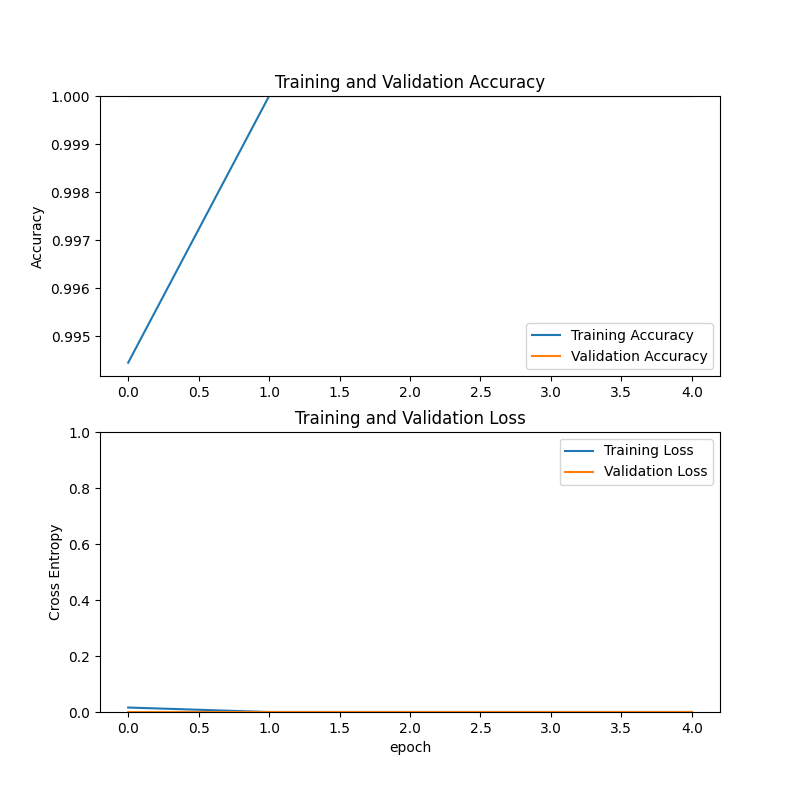
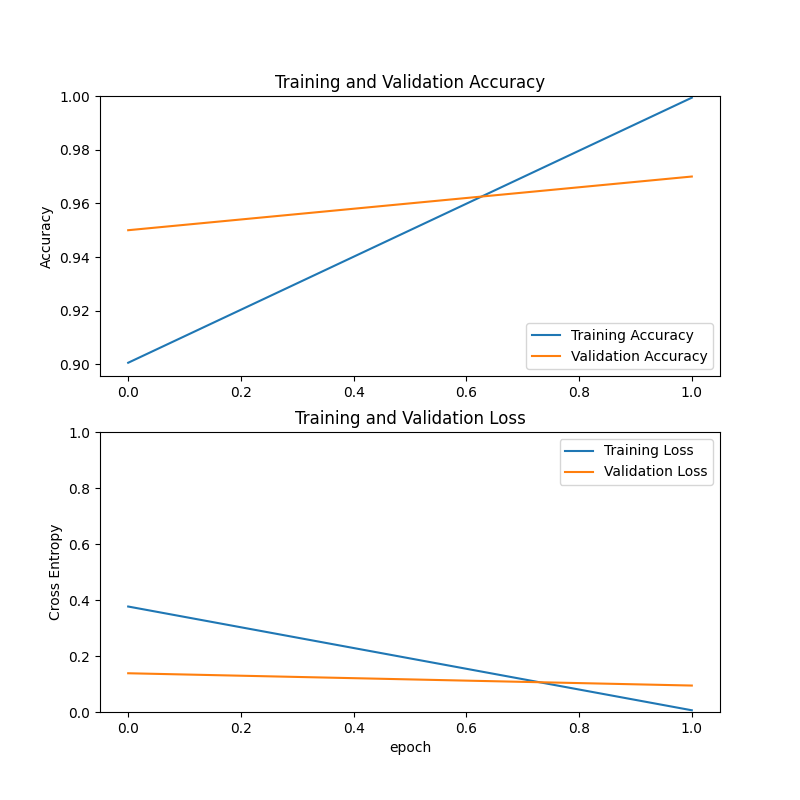
Train 4 person model

diff --git a/src/main.py b/src/main.py
@@ -1,7 +1,10 @@
 import matplotlib.pyplot as plt
 from pathlib import Path
+import numpy as np
 
 import constants
+from PIL import Image
+
 from dataset import Dataset
 from model import Model
 
@@ -37,8 +40,76 @@ def plot_metrics(history):
 
 
 if __name__ == "__main__":
-    dataset = Dataset(True)
-    model = Model(dataset)
-    history = model.train(constants.EPOCHS)
-    plot_metrics(history)
-    model.metrics()
+    # dataset = Dataset()
+    # model = Model(dataset)
+    # history = model.train(constants.EPOCHS)
+    # plot_metrics(history)
+    # model.export(quantize=False)
+    from predict import UbuntuPredictor
+    predictor = UbuntuPredictor("output/model.tflite")
+    preds = []
+    truths = []
+    for person in ["max", "connor", "grant", "emre"]:
+        for i in range(10):
+            image_path = f"./data/{person}/{str(i).zfill(5)}.jpg"
+            img = Image.open(image_path).convert('RGB')
+            img = img.resize((constants.IMAGE_SIZE, constants.IMAGE_SIZE), Image.LANCZOS)
+            img = np.array(img).astype(np.float32)/256.0
+            pred = predictor.predict(img,quantize=False)
+            preds.append(pred)
+            truths.append(person)
+
+    from sklearn.metrics import classification_report
+    print(classification_report(truths, preds))
+    # import tensorflow as tf
+    # def set_input_tensor(interpreter, input):
+    #     input_details = interpreter.get_input_details()[0]
+    #     tensor_index = input_details['index']
+    #     input_tensor = interpreter.tensor(tensor_index)()[0]
+    #     # Inputs for the TFLite model must be uint8, so we quantize our input data.
+    #     # NOTE: This step is necessary only because we're receiving input data from
+    #     # ImageDataGenerator, which rescaled all image data to float [0,1]. When using
+    #     # bitmap inputs, they're already uint8 [0,255] so this can be replaced with:
+    #     #   input_tensor[:, :] = input
+    #     scale, zero_point = input_details['quantization']
+    #     input_tensor[:, :] = np.uint8(input / scale + zero_point)
+    #
+    #
+    # def classify_image(interpreter, input):
+    #     set_input_tensor(interpreter, input)
+    #     interpreter.invoke()
+    #     output_details = interpreter.get_output_details()[0]
+    #     output = interpreter.get_tensor(output_details['index'])
+    #     # Outputs from the TFLite model are uint8, so we dequantize the results:
+    #     scale, zero_point = output_details['quantization']
+    #     output = scale * (output - zero_point)
+    #     top_1 = np.argmax(output)
+    #     return top_1
+    #
+    #
+    # interpreter = tf.lite.Interpreter('output/model.tflite')
+    # interpreter.allocate_tensors()
+    #
+    # # Collect all inference predictions in a list
+    # batch_prediction = []
+    # batch_images, batch_labels = next(dataset.val_generator)
+    # batch_truth = np.argmax(batch_labels, axis=1)
+    #
+    # for i in range(len(batch_images)):
+    #     prediction = classify_image(interpreter, batch_images[i])
+    #     batch_prediction.append(prediction)
+    #
+    # # Compare all predictions to the ground truth
+    # tflite_accuracy = tf.keras.metrics.Accuracy()
+    # tflite_accuracy(batch_prediction, batch_truth)
+    # print("Quant TF Lite accuracy: {:.3%}".format(tflite_accuracy.result()))
+    # image_path = f"./data/max/00000.jpg"
+    # img = Image.open(image_path).convert('RGB')
+    # img = img.resize((constants.IMAGE_SIZE, constants.IMAGE_SIZE), Image.LANCZOS)
+    # img = np.array(img).astype(np.float32)
+    # test_img = batch_images[0]
+    # print(img/256., "loaded")
+    # print(test_img, "gen")
+    # print(classify_image(interpreter, img))
+
+

diff --git a/src/model.py b/src/model.py
@@ -1,5 +1,6 @@
 import tensorflow as tf
 import numpy as np
+
 from sklearn.metrics import classification_report
 
 import constants
@@ -9,6 +10,7 @@ class Model:
     def __init__(self, dataset):
         self.train_generator = dataset.train_generator
         self.val_generator = dataset.val_generator
+        self.rep_gen_func = dataset.representative_data_gen
 
         mobilenet = tf.keras.applications.MobileNetV2(input_shape=constants.IMAGE_SHAPE, include_top=False,
                                                       weights="imagenet")
@@ -24,6 +26,8 @@ class Model:
         self._model.compile(optimizer='adam',
                             loss='categorical_crossentropy',
                             metrics=['accuracy'])
+        self.labels = None
+        self._label_map()
 
     def train(self, epochs):
         history = self._model.fit(self.train_generator,
@@ -34,13 +38,38 @@ class Model:
         return history
 
     def metrics(self):
-        truths = []
-        predictions = []
-        for _ in range(57):
-            batch, label_batch = next(self.val_generator)
-            batch_predictions = self._model.predict_on_batch(batch)
-            truths.extend(np.argmax(label_batch, axis=1).tolist())
-            predictions.extend(np.argmax(batch_predictions, axis=1).tolist())
+        truths = self.val_generator.classes
+        predictions = self._model.predict(self.val_generator).argmax(axis=-1)
+
+        def map_labels(array):
+            return [self.labels[i] for i in array]
+
+        truths = map_labels(truths)
+        predictions = map_labels(predictions)
+
         print(truths)
         print(predictions)
         print(classification_report(truths, predictions))
+
+    def _label_map(self):
+        with open("data/labels.txt", 'r') as file:
+            self.labels = {i: e.replace('\n', '') for i, e in enumerate(file.readlines())}
+
+    def export(self,quantize=True):
+        converter = tf.lite.TFLiteConverter.from_keras_model(self._model)
+        if quantize:
+            # This enables quantization
+            converter.optimizations = [tf.lite.Optimize.DEFAULT]
+            # This sets the representative dataset for quantization
+            converter.representative_dataset = self.rep_gen_func
+            # This ensures that if any ops can't be quantized, the converter throws an error
+            converter.target_spec.supported_ops = [tf.lite.OpsSet.TFLITE_BUILTINS_INT8]
+            # For full integer quantization, though supported types defaults to int8 only, we explicitly declare it for clarity.
+            converter.target_spec.supported_types = [tf.int8]
+            # These set the input and output tensors to uint8 (added in r2.3)
+            converter.inference_input_type = tf.uint8
+            converter.inference_output_type = tf.uint8
+        tflite_model = converter.convert()
+
+        with open('output/model.tflite', 'wb') as f:
+            f.write(tflite_model)

diff --git a/src/predict.py b/src/predict.py
@@ -1,0 +1,30 @@
+import numpy as np
+# import tensorflow as tf
+# import tflite_runtime.interpreter as tflite
+import tensorflow.lite as tflite
+
+class UbuntuPredictor:
+    def __init__(self, path):
+        # construct interpreter
+        self.interpreter = tflite.Interpreter(path)
+        self.interpreter.allocate_tensors()
+        with open("data/labels.txt", 'r') as file:
+            self.labels = {i: e.replace('\n', '') for i, e in enumerate(file.readlines())}
+
+    def predict(self, input_arr, quantize=False):
+        input_details = self.interpreter.get_input_details()[0]
+        if quantize:
+            scale, zero_point = input_details['quantization']
+            input_arr = np.uint8(input_arr / scale + zero_point)
+        if len(input_arr.shape) != 4:
+            input_arr = np.expand_dims(input_arr, axis=0)
+        self.interpreter.set_tensor(input_details['index'], input_arr)
+        self.interpreter.invoke()
+        output_details = self.interpreter.get_output_details()[0]
+        output = self.interpreter.get_tensor(output_details['index'])
+        # quantize
+        if quantize:
+            scale, zero_point = output_details['quantization']
+            output = scale * (output - zero_point)
+        top_1 = np.argmax(output)
+        return self.labels[top_1]

diff --git a/src/dataset.py b/src/dataset.py
@@ -26,3 +26,15 @@ class Dataset:
             labels = '\n'.join(sorted(self.train_generator.class_indices.keys()))
             with open('data/labels.txt', 'w') as f:
                 f.write(labels)
+
+    def representative_data_gen(self):
+        dataset_list = tf.data.Dataset.list_files(self.path + '/*/*')
+        for i in range(100):
+            image = next(iter(dataset_list))
+            print(image)
+            image = tf.io.read_file(image)
+            image = tf.io.decode_jpeg(image, channels=3)
+            image = tf.image.resize(image, [constants.IMAGE_SIZE, constants.IMAGE_SIZE])
+            image = tf.cast(image / 255., tf.float32)
+            image = tf.expand_dims(image, 0)
+            yield [image]

diff --git a/src/constants.py b/src/constants.py
@@ -1,5 +1,5 @@
 IMAGE_SIZE = 256  # 256 pixels after resize
 IMAGE_SHAPE = (IMAGE_SIZE, IMAGE_SIZE, 3)  # 3 channels
 BATCH_SIZE = 16
-CLASSES = 2
-EPOCHS = 5
+CLASSES = 4
+EPOCHS = 2
